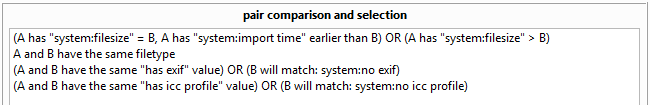
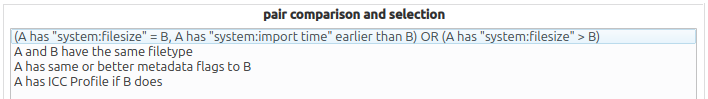
duplicates auto-resolution update for the new metadata flags
ten points if you can figure out how to say "A has ICC Profile if B does" less awkwardly

diff --git a/hydrus/client/duplicates/ClientDuplicatesAutoResolution.py b/hydrus/client/duplicates/ClientDuplicatesAutoResolution.py
@@ -617,61 +617,13 @@ class DuplicatesAutoResolutionRule( HydrusSerialisable.SerialisableBaseNamed ):
 
 HydrusSerialisable.SERIALISABLE_TYPES_TO_OBJECT_TYPES[ HydrusSerialisable.SERIALISABLE_TYPE_DUPLICATES_AUTO_RESOLUTION_RULE ] = DuplicatesAutoResolutionRule
 
-def GetSmartEXIFAndICCComparators():
+def GetSmartMetadataAndICCComparators():
     
-    one_file_comparator = ClientDuplicatesAutoResolutionComparators.PairComparatorOneFileMetadataConditional()
+    smart_metadata_comparator = ClientDuplicatesAutoResolutionComparators.PairComparatorRelativeHardcoded( hardcoded_type = ClientDuplicatesAutoResolutionComparators.HARDCODED_COMPARATOR_TYPE_TWO_FILES_A_HAS_SAME_OR_BETTER_METADATA_FLAGS_TO_B )
     
-    one_file_comparator.SetLookingAt( ClientDuplicatesAutoResolutionComparators.LOOKING_AT_B )
+    smart_icc_profile_comparator = ClientDuplicatesAutoResolutionComparators.PairComparatorRelativeHardcoded( hardcoded_type = ClientDuplicatesAutoResolutionComparators.HARDCODED_COMPARATOR_TYPE_TWO_FILES_A_HAS_SAME_OR_BETTER_ICC_FLAG_TO_B )
     
-    file_search_context_mc = ClientSearchFileSearchContext.FileSearchContext(
-        predicates = [
-            ClientSearchPredicate.Predicate( predicate_type = ClientSearchPredicate.PREDICATE_TYPE_SYSTEM_HAS_EXIF, value = False ),
-        ]
-    )
-    
-    metadata_conditional = ClientMetadataConditional.MetadataConditional()
-    
-    metadata_conditional.SetFileSearchContext( file_search_context_mc )
-    
-    one_file_comparator.SetMetadataConditional( metadata_conditional )
-    
-    hardcoded_comparator = ClientDuplicatesAutoResolutionComparators.PairComparatorRelativeHardcoded( hardcoded_type = ClientDuplicatesAutoResolutionComparators.HARDCODED_COMPARATOR_TYPE_TWO_FILES_HAS_EXIF_SAME )
-    
-    smart_exif_comparator = ClientDuplicatesAutoResolutionComparators.PairComparatorOR(
-        [
-            one_file_comparator,
-            hardcoded_comparator
-        ]
-    )
-    
-    #
-    
-    one_file_comparator = ClientDuplicatesAutoResolutionComparators.PairComparatorOneFileMetadataConditional()
-    
-    one_file_comparator.SetLookingAt( ClientDuplicatesAutoResolutionComparators.LOOKING_AT_B )
-    
-    file_search_context_mc = ClientSearchFileSearchContext.FileSearchContext(
-        predicates = [
-            ClientSearchPredicate.Predicate( predicate_type = ClientSearchPredicate.PREDICATE_TYPE_SYSTEM_HAS_ICC_PROFILE, value = False ),
-        ]
-    )
-    
-    metadata_conditional = ClientMetadataConditional.MetadataConditional()
-    
-    metadata_conditional.SetFileSearchContext( file_search_context_mc )
-    
-    one_file_comparator.SetMetadataConditional( metadata_conditional )
-    
-    hardcoded_comparator = ClientDuplicatesAutoResolutionComparators.PairComparatorRelativeHardcoded( hardcoded_type = ClientDuplicatesAutoResolutionComparators.HARDCODED_COMPARATOR_TYPE_TWO_FILES_HAS_ICC_PROFILE_SAME )
-    
-    smart_icc_profile_comparator = ClientDuplicatesAutoResolutionComparators.PairComparatorOR(
-        [
-            one_file_comparator,
-            hardcoded_comparator
-        ]
-    )
-    
-    return ( smart_exif_comparator, smart_icc_profile_comparator )
+    return ( smart_metadata_comparator, smart_icc_profile_comparator )
     
 
 def GetDefaultRuleSuggestions() -> list[ DuplicatesAutoResolutionRule ]:
@@ -989,7 +941,7 @@ def GetDefaultRuleSuggestionsPixelPerfectFiletypePairs() -> list[ DuplicatesAuto
 
 def GetDefaultRuleSuggestionsPixelPerfectPairs() -> list[ DuplicatesAutoResolutionRule ]:
     
-    ( smart_exif_comparator, smart_icc_profile_comparator ) = GetSmartEXIFAndICCComparators()
+    ( smart_metadata_comparator, smart_icc_profile_comparator ) = GetSmartMetadataAndICCComparators()
     
     #
     
@@ -1065,7 +1017,7 @@ def GetDefaultRuleSuggestionsPixelPerfectPairs() -> list[ DuplicatesAutoResoluti
     
     comparators.append( comparator )
     
-    comparators.append( smart_exif_comparator )
+    comparators.append( smart_metadata_comparator )
     
     comparators.append( smart_icc_profile_comparator )
     
@@ -1087,7 +1039,7 @@ def GetDefaultRuleSuggestionsPixelPerfectPairs() -> list[ DuplicatesAutoResoluti
 
 def GetDefaultRuleSuggestionsVisuallySimilar() -> list[ DuplicatesAutoResolutionRule ]:
     
-    ( smart_exif_comparator, smart_icc_profile_comparator ) = GetSmartEXIFAndICCComparators()
+    ( smart_metadata_comparator, smart_icc_profile_comparator ) = GetSmartMetadataAndICCComparators()
     
     #
     
@@ -1159,7 +1111,7 @@ def GetDefaultRuleSuggestionsVisuallySimilar() -> list[ DuplicatesAutoResolution
     
     comparators.append( comparator )
     
-    comparators.append( smart_exif_comparator )
+    comparators.append( smart_metadata_comparator )
     
     comparators.append( smart_icc_profile_comparator )
     
@@ -1202,7 +1154,7 @@ def GetDefaultRuleSuggestionsVisuallySimilar() -> list[ DuplicatesAutoResolution
 
 def GetDefaultRuleSuggestionsNearPerfectFiletypePairs() -> list[ DuplicatesAutoResolutionRule ]:
     
-    ( smart_exif_comparator, smart_icc_profile_comparator ) = GetSmartEXIFAndICCComparators()
+    ( smart_metadata_comparator, smart_icc_profile_comparator ) = GetSmartMetadataAndICCComparators()
     
     #
     
@@ -1298,7 +1250,7 @@ def GetDefaultRuleSuggestionsNearPerfectFiletypePairs() -> list[ DuplicatesAutoR
     
     comparators.append( comparator )
     
-    comparators.append( smart_exif_comparator )
+    comparators.append( smart_metadata_comparator )
     
     selector.SetComparators( comparators )
     

diff --git a/hydrus/client/duplicates/ClientDuplicatesAutoResolutionComparators.py b/hydrus/client/duplicates/ClientDuplicatesAutoResolutionComparators.py
@@ -471,6 +471,8 @@ HARDCODED_COMPARATOR_TYPE_TWO_FILES_FILETYPE_DIFFERS = 1
 HARDCODED_COMPARATOR_TYPE_TWO_FILES_HAS_EXIF_SAME = 2
 HARDCODED_COMPARATOR_TYPE_TWO_FILES_HAS_ICC_PROFILE_SAME = 3
 HARDCODED_COMPARATOR_TYPE_TWO_FILES_A_HAS_CLEARLY_BETTER_JPEG_QUALITY = 4
+HARDCODED_COMPARATOR_TYPE_TWO_FILES_A_HAS_SAME_OR_BETTER_METADATA_FLAGS_TO_B = 5
+HARDCODED_COMPARATOR_TYPE_TWO_FILES_A_HAS_SAME_OR_BETTER_ICC_FLAG_TO_B = 6
 
 hardcoded_comparator_type_two_files_str_lookup = {
     HARDCODED_COMPARATOR_TYPE_TWO_FILES_FILETYPE_SAME : 'A and B have the same filetype',
@@ -478,6 +480,8 @@ hardcoded_comparator_type_two_files_str_lookup = {
     HARDCODED_COMPARATOR_TYPE_TWO_FILES_HAS_EXIF_SAME : 'A and B have the same "has exif" value',
     HARDCODED_COMPARATOR_TYPE_TWO_FILES_HAS_ICC_PROFILE_SAME : 'A and B have the same "has icc profile" value',
     HARDCODED_COMPARATOR_TYPE_TWO_FILES_A_HAS_CLEARLY_BETTER_JPEG_QUALITY : 'A has clearly better jpeg quality than B',
+    HARDCODED_COMPARATOR_TYPE_TWO_FILES_A_HAS_SAME_OR_BETTER_METADATA_FLAGS_TO_B : 'A has same or better metadata flags to B',
+    HARDCODED_COMPARATOR_TYPE_TWO_FILES_A_HAS_SAME_OR_BETTER_ICC_FLAG_TO_B : 'A has ICC Profile if B does',
 }
 
 class PairComparatorRelativeHardcoded( PairComparator ):
@@ -508,7 +512,11 @@ class PairComparatorRelativeHardcoded( PairComparator ):
     
     def CanDetermineBetter( self ) -> bool:
         
-        if self._hardcoded_type == HARDCODED_COMPARATOR_TYPE_TWO_FILES_A_HAS_CLEARLY_BETTER_JPEG_QUALITY:
+        if self._hardcoded_type in (
+            HARDCODED_COMPARATOR_TYPE_TWO_FILES_A_HAS_CLEARLY_BETTER_JPEG_QUALITY,
+            HARDCODED_COMPARATOR_TYPE_TWO_FILES_A_HAS_SAME_OR_BETTER_METADATA_FLAGS_TO_B,
+            HARDCODED_COMPARATOR_TYPE_TWO_FILES_A_HAS_SAME_OR_BETTER_ICC_FLAG_TO_B,
+        ):
             
             return True
             
@@ -533,7 +541,11 @@ class PairComparatorRelativeHardcoded( PairComparator ):
     
     def OrderDoesNotMatter( self ):
         
-        if self._hardcoded_type == HARDCODED_COMPARATOR_TYPE_TWO_FILES_A_HAS_CLEARLY_BETTER_JPEG_QUALITY:
+        if self._hardcoded_type in (
+                HARDCODED_COMPARATOR_TYPE_TWO_FILES_A_HAS_CLEARLY_BETTER_JPEG_QUALITY,
+                HARDCODED_COMPARATOR_TYPE_TWO_FILES_A_HAS_SAME_OR_BETTER_METADATA_FLAGS_TO_B,
+                HARDCODED_COMPARATOR_TYPE_TWO_FILES_A_HAS_SAME_OR_BETTER_ICC_FLAG_TO_B,
+        ):
             
             return False
             
@@ -597,6 +609,36 @@ class PairComparatorRelativeHardcoded( PairComparator ):
                 
                 return quality_ratio < 0.7 # 0.7 is about our quality step here
                 
+            
+        elif self._hardcoded_type == HARDCODED_COMPARATOR_TYPE_TWO_FILES_A_HAS_SAME_OR_BETTER_METADATA_FLAGS_TO_B:
+            
+            a_file_info_manager = media_result_a.GetFileInfoManager()
+            b_file_info_manager = media_result_b.GetFileInfoManager()
+            
+            for ( value_a, value_b ) in (
+                ( a_file_info_manager.has_exif, b_file_info_manager.has_exif ),
+                ( a_file_info_manager.has_xmp, b_file_info_manager.has_xmp ),
+                ( a_file_info_manager.has_iptc, b_file_info_manager.has_iptc ),
+                ( a_file_info_manager.has_software_source, b_file_info_manager.has_software_source ),
+                ( a_file_info_manager.has_human_readable_embedded_metadata, b_file_info_manager.has_human_readable_embedded_metadata ),
+            ):
+                
+                if not value_a and value_b:
+                    
+                    return False
+                    
+                
+            
+            return True
+            
+        elif self._hardcoded_type == HARDCODED_COMPARATOR_TYPE_TWO_FILES_A_HAS_SAME_OR_BETTER_ICC_FLAG_TO_B:
+            
+            if media_result_b.GetFileInfoManager().has_icc_profile:
+                
+                return media_result_a.GetFileInfoManager().has_icc_profile
+                
+            
+            return True
             
         
         raise Exception( f'Do not understand what I should do with a type of {self._hardcoded_type}!' )

diff --git a/hydrus/test/TestClientDuplicatesAutoResolution.py b/hydrus/test/TestClientDuplicatesAutoResolution.py
@@ -791,6 +791,59 @@ class TestComparatorHardcoded( unittest.TestCase ):
         self.assertFalse( comparator.Test( media_result_c, media_result_c ) )
         
     
+    def test_comparator_3_general_metadata( self ):
+        
+        media_result_a = HelperFunctions.GetFakeMediaResult( HydrusData.GenerateKey() )
+        media_result_b = HelperFunctions.GetFakeMediaResult( HydrusData.GenerateKey() )
+        media_result_c = HelperFunctions.GetFakeMediaResult( HydrusData.GenerateKey() )
+        media_result_d = HelperFunctions.GetFakeMediaResult( HydrusData.GenerateKey() )
+        
+        media_result_a.GetFileInfoManager().has_exif = True
+        media_result_b.GetFileInfoManager().has_exif = True
+        media_result_a.GetFileInfoManager().has_iptc = True
+        media_result_c.GetFileInfoManager().has_exif = True
+        media_result_d.GetFileInfoManager().has_exif = True
+        media_result_d.GetFileInfoManager().has_human_readable_embedded_metadata = True
+        
+        comparator = ClientDuplicatesAutoResolutionComparators.PairComparatorRelativeHardcoded( hardcoded_type = ClientDuplicatesAutoResolutionComparators.HARDCODED_COMPARATOR_TYPE_TWO_FILES_A_HAS_SAME_OR_BETTER_METADATA_FLAGS_TO_B )
+        
+        self.assertTrue( comparator.CanDetermineBetter() )
+        
+        self.assertTrue( comparator.Test( media_result_a, media_result_b ) )
+        self.assertFalse( comparator.Test( media_result_b, media_result_a ) )
+        
+        self.assertFalse( comparator.Test( media_result_c, media_result_d ) )
+        self.assertTrue( comparator.Test( media_result_d, media_result_c ) )
+        
+        self.assertTrue( comparator.Test( media_result_b, media_result_c ) )
+        self.assertTrue( comparator.Test( media_result_c, media_result_b ) )
+        
+        #
+        
+        media_result_a = HelperFunctions.GetFakeMediaResult( HydrusData.GenerateKey() )
+        media_result_b = HelperFunctions.GetFakeMediaResult( HydrusData.GenerateKey() )
+        media_result_c = HelperFunctions.GetFakeMediaResult( HydrusData.GenerateKey() )
+        media_result_d = HelperFunctions.GetFakeMediaResult( HydrusData.GenerateKey() )
+        
+        media_result_a.GetFileInfoManager().has_icc_profile = True
+        media_result_b.GetFileInfoManager().has_icc_profile = True
+        media_result_c.GetFileInfoManager().has_icc_profile = False
+        media_result_d.GetFileInfoManager().has_icc_profile = False
+        
+        comparator = ClientDuplicatesAutoResolutionComparators.PairComparatorRelativeHardcoded( hardcoded_type = ClientDuplicatesAutoResolutionComparators.HARDCODED_COMPARATOR_TYPE_TWO_FILES_A_HAS_SAME_OR_BETTER_ICC_FLAG_TO_B )
+        
+        self.assertTrue( comparator.CanDetermineBetter() )
+        
+        self.assertTrue( comparator.Test( media_result_a, media_result_b ) )
+        self.assertTrue( comparator.Test( media_result_b, media_result_a ) )
+        
+        self.assertTrue( comparator.Test( media_result_c, media_result_d ) )
+        self.assertTrue( comparator.Test( media_result_d, media_result_c ) )
+        
+        self.assertTrue( comparator.Test( media_result_a, media_result_c ) )
+        self.assertFalse( comparator.Test( media_result_c, media_result_a ) )
+        
+    
 
 class TestComparatorVisualDuplicates( unittest.TestCase ):
     

diff --git a/hydrus/client/gui/duplicates/ClientGUIDuplicatesAutoResolution.py b/hydrus/client/gui/duplicates/ClientGUIDuplicatesAutoResolution.py
@@ -746,6 +746,8 @@ class EditComparatorList( ClientGUIListBoxes.AddEditDeleteListBox ):
             ( ClientDuplicatesAutoResolutionComparators.PairComparatorRelativeHardcoded( hardcoded_type = ClientDuplicatesAutoResolutionComparators.HARDCODED_COMPARATOR_TYPE_TWO_FILES_FILETYPE_SAME ), 'A comparator that tests if the two files share the same filetype.' ),
             ( ClientDuplicatesAutoResolutionComparators.PairComparatorRelativeHardcoded( hardcoded_type = ClientDuplicatesAutoResolutionComparators.HARDCODED_COMPARATOR_TYPE_TWO_FILES_FILETYPE_DIFFERS ), 'A comparator that tests if the two files have different filetype.' ),
             ( ClientDuplicatesAutoResolutionComparators.PairComparatorRelativeHardcoded( hardcoded_type = ClientDuplicatesAutoResolutionComparators.HARDCODED_COMPARATOR_TYPE_TWO_FILES_A_HAS_CLEARLY_BETTER_JPEG_QUALITY ), 'A comparator that tests if A has a non-trivially higher apparent jpeg quality than B. The difference corresponds to about one label-step of quality as you see in the duplicate filter. If either file is not a jpeg, it fails.' ),
+            ( ClientDuplicatesAutoResolutionComparators.PairComparatorRelativeHardcoded( hardcoded_type = ClientDuplicatesAutoResolutionComparators.HARDCODED_COMPARATOR_TYPE_TWO_FILES_A_HAS_SAME_OR_BETTER_METADATA_FLAGS_TO_B ), 'Easy one-shot comparator that wants to preserve rich metadata in A. If B has a "has_x" flag, A must have it too. The flags tested are: EXIF, XMP, IPTC, software/source, human-readable. The actual contents are not compared, only the presence.' ),
+            ( ClientDuplicatesAutoResolutionComparators.PairComparatorRelativeHardcoded( hardcoded_type = ClientDuplicatesAutoResolutionComparators.HARDCODED_COMPARATOR_TYPE_TWO_FILES_A_HAS_SAME_OR_BETTER_ICC_FLAG_TO_B ), 'Easy one-shot comparator that wants to keep ICC Profiles in A. If B has an ICC Profile, A must have one too. The actual contents are not compared, only the presence.' ),
             ( ClientDuplicatesAutoResolutionComparators.PairComparatorRelativeHardcoded( hardcoded_type = ClientDuplicatesAutoResolutionComparators.HARDCODED_COMPARATOR_TYPE_TWO_FILES_HAS_EXIF_SAME ), 'A comparator that tests if the two files either both have or both do not have some amount of EXIF data.' ),
             ( ClientDuplicatesAutoResolutionComparators.PairComparatorRelativeHardcoded( hardcoded_type = ClientDuplicatesAutoResolutionComparators.HARDCODED_COMPARATOR_TYPE_TWO_FILES_HAS_ICC_PROFILE_SAME ), 'A comparator that tests if the two files either both have or both do not have some amount of ICC Profile data.' ),
         ]

diff --git a/docs/advanced_duplicates_auto_resolution.md b/docs/advanced_duplicates_auto_resolution.md
@@ -183,8 +183,10 @@ What's going on here?
     - **A is larger than B** - When two files are pixel-perfect duplicates, the larger filesize is probably the more original. The file header might be interesting, like an AI prompt or EXIF information, or it might be rubbish, like a 189KB XML document defining brushes and layers that was carried over from some PSD conversion, but either way the file is very probably more original, and, as makes sense, we lose less data by deleting the smaller.
     - **A is the same filesize as B and A was imported earlier than** - Sometimes, pixel-perfect duplicates are exactly the same filesize. I have seen this with successive conversions of an original file using different versions of imagemagick. I assume the file header simply has a different version enum somewhere. We want a tie-breaker, so we'll go with the earlier import.
 - **filetype the same** - A jpeg/png pixel pair has special rules, and so would a jpeg/jpeg xl, or a gif/tiff. Let's not get too clever and just compare like with like.
-- **EXIF** - This logic block is ugly, but it means "Do not allow an AB pair where A has no EXIF but B does have EXIF". We don't want to accidentally delete a B with EXIF.
-- **ICC Profile** - Same deal as EXIF. ICC Profiles are tricky because many IRL examples are inserted stubs. They don't always always point to originality. Let's be careful anyway.
+- **A has same or better metadata flags to B** - This means "Do not allow an AB pair where A has no interesting metadata but B does". It tests the "has x" flags for: EXIF, XMP, IPTC, software/source, and human-readable. If only A has EXIF, it passes, if both A and B have EXIF, it passes, if neither have it, it passes, but if only B has EXIF, it fails. If A has EXIF, XMP, and IPTC and B only has software/source, it fails because A does not have software/source. We don't want to accidentally delete a B with cool stuff.
+- **A has ICC Profile if B does** - Same deal as the metadata test, but only for "has icc profile". ICC Profiles are tricky because many IRL examples are inserted stubs. They don't always always point to originality. Let's be careful anyway.
+
+The Metadata and ICC Profile tests do not compare the _contents_ of the EXIF structure etc..., they only compare the "has_x" presence of that flag.
 
 Note we don't have to compare resolution because pixel-perfect files always have the same resolution.
 
